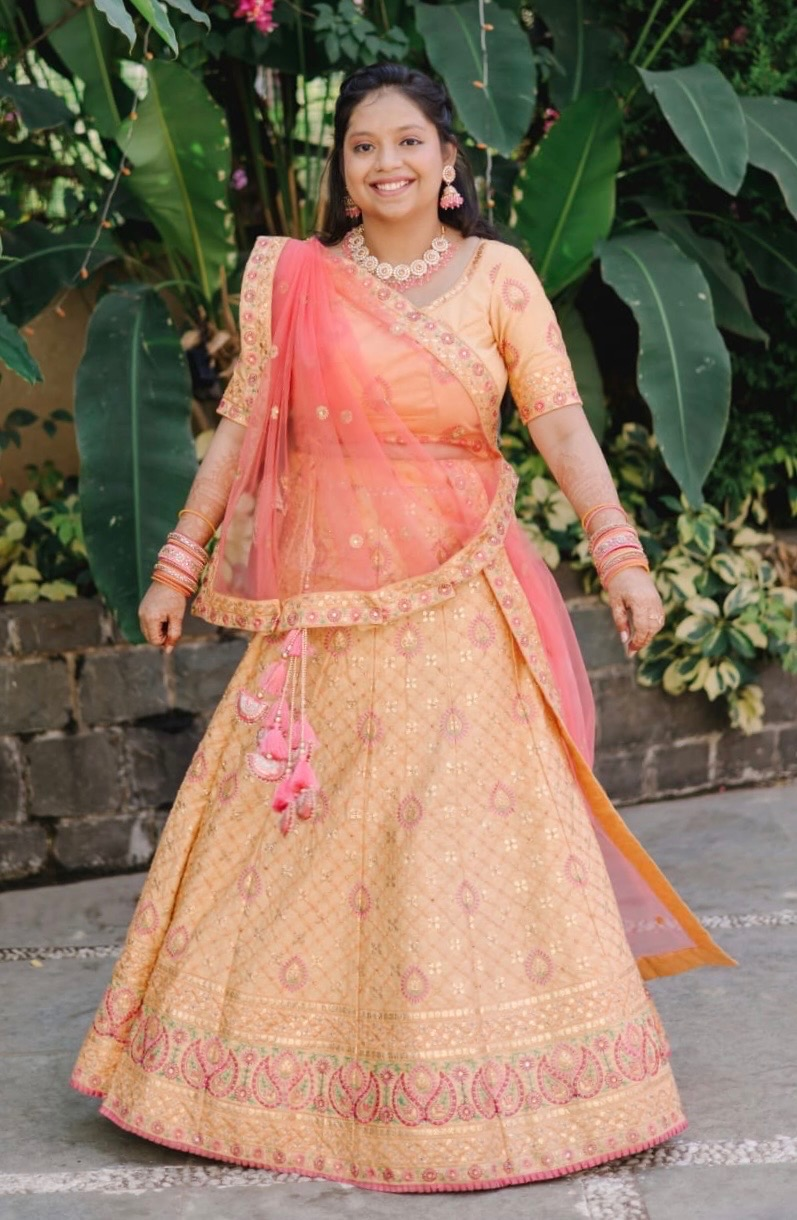
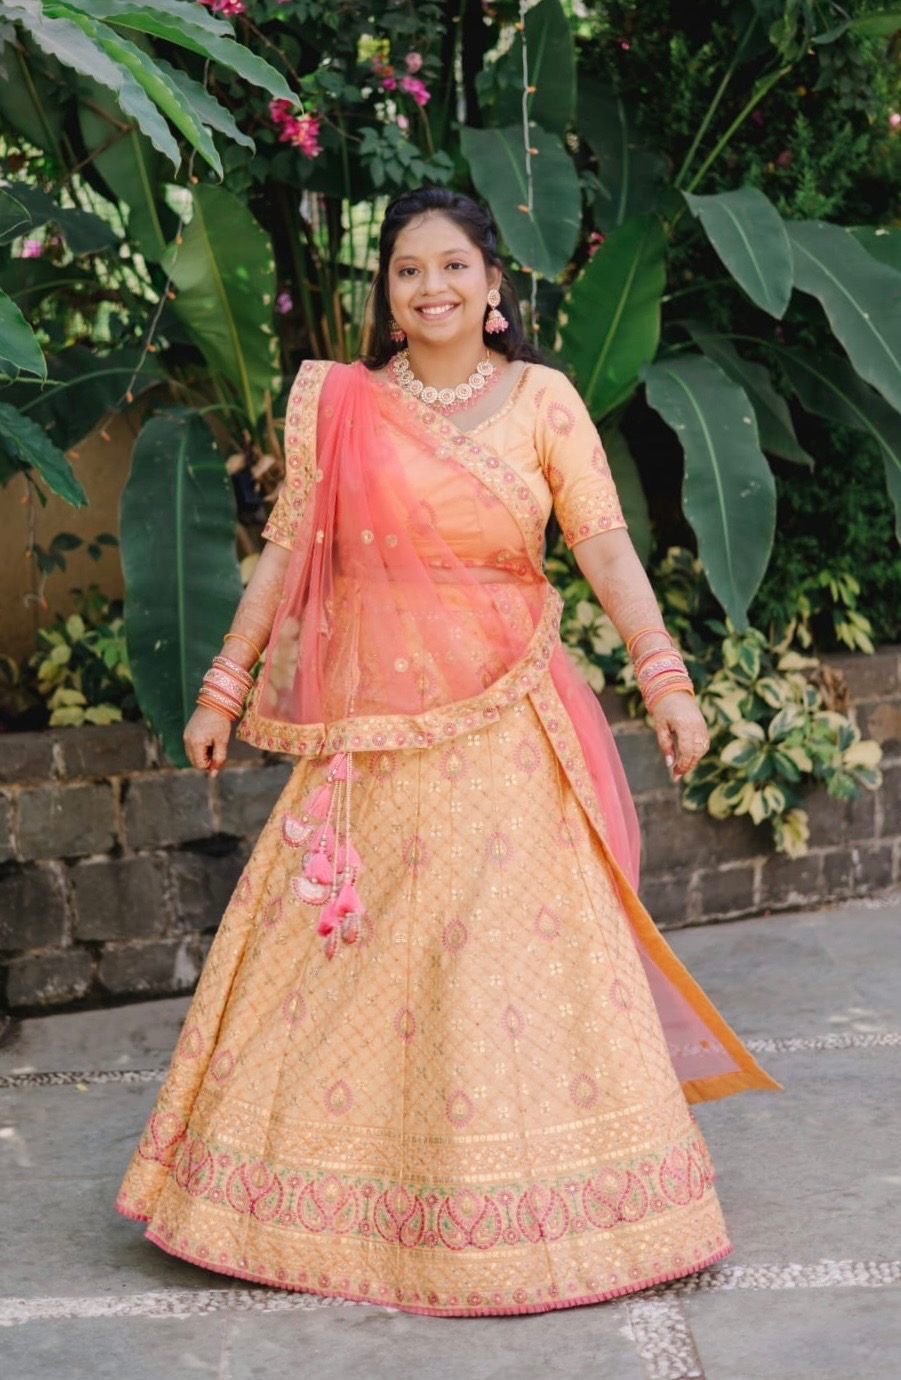
Add bride photos, Vibha bridesmaid, engagement countdown improvements
- Added Samiksha's 5 photos to Meet the Bride section
- Added Vibha as bridesmaid with new Tanvi and Priya photos
- Engagement countdown counts up after date passes
- Font consistency: sans-serif for values in Engagement, Reception
- Sans-serif for crew names, removed hashtag jiggle animation
- Updated First Date timeline with speeding ticket story

diff --git a/src/components/EngagementDetails.jsx b/src/components/EngagementDetails.jsx
@@ -7,12 +7,14 @@ import styles from './EngagementDetails.module.css';
 function useCountdown(targetDate) {
   const calc = () => {
     const diff = new Date(targetDate) - new Date();
-    if (diff <= 0) return { days: 0, hours: 0, minutes: 0, seconds: 0 };
+    const isPast = diff <= 0;
+    const absDiff = Math.abs(diff);
     return {
-      days: Math.floor(diff / (1000 * 60 * 60 * 24)),
-      hours: Math.floor((diff / (1000 * 60 * 60)) % 24),
-      minutes: Math.floor((diff / (1000 * 60)) % 60),
-      seconds: Math.floor((diff / 1000) % 60),
+      isPast,
+      days: Math.floor(absDiff / (1000 * 60 * 60 * 24)),
+      hours: Math.floor((absDiff / (1000 * 60 * 60)) % 24),
+      minutes: Math.floor((absDiff / (1000 * 60)) % 60),
+      seconds: Math.floor((absDiff / 1000) % 60),
     };
   };
 
@@ -28,7 +30,25 @@ function useCountdown(targetDate) {
 
 export default function EngagementDetails() {
   const { engagement } = content;
-  const { days, hours, minutes, seconds } = useCountdown(engagement.countdownDate);
+  const { isPast, days, hours, minutes, seconds } = useCountdown(engagement.countdownDate);
+
+  const countdownMsg = isPast
+    ? 'And just like that, forever found its beginning.'
+    : 'Every second brings us closer to forever';
+
+  const countdownLabels = isPast
+    ? [
+        { value: days, label: 'Days' },
+        { value: hours, label: 'Hours' },
+        { value: minutes, label: 'Minutes' },
+        { value: seconds, label: 'Seconds' },
+      ]
+    : [
+        { value: days, label: 'Days' },
+        { value: hours, label: 'Hours' },
+        { value: minutes, label: 'Minutes' },
+        { value: seconds, label: 'Seconds' },
+      ];
 
   return (
     <section className="section">
@@ -63,14 +83,12 @@ export default function EngagementDetails() {
             </div>
           </div>
 
-          <p className={styles.countdownMsg}>Every second brings us closer to forever</p>
+          {isPast && (
+            <p className={styles.sinceLabel}>Happily engaged for</p>
+          )}
+          <p className={styles.countdownMsg}>{countdownMsg}</p>
           <div className={styles.countdown}>
-            {[
-              { value: days, label: 'Days' },
-              { value: hours, label: 'Hours' },
-              { value: minutes, label: 'Minutes' },
-              { value: seconds, label: 'Seconds' },
-            ].map(({ value, label }) => (
+            {countdownLabels.map(({ value, label }) => (
               <div key={label} className={styles.countUnit}>
                 <span className={styles.countValue}>{String(value).padStart(2, '0')}</span>
                 <span className={styles.countLabel}>{label}</span>

diff --git a/src/data/content.js b/src/data/content.js
@@ -54,7 +54,7 @@ export const content = {
       },
       {
         title: 'The First Date',
-        description: 'Coffee turned into dinner, dinner turned into hours of conversation, and hours turned into a connection that would last a lifetime.',
+        description: 'A dinner that turned into hours of conversation, a drive back that turned into a speeding ticket — and a memory that still makes us laugh. Who knew love could come with a fine?',
       },
       {
         title: 'Becoming Each Other\'s Person',
@@ -73,7 +73,7 @@ export const content = {
 
   engagement: {
     heading: 'Engagement Ceremony',
-    date: '1st May 2026',
+    date: '01 May 2026',
     countdownDate: '2026-05-01T10:00:00',
     time: 'Stay tuned for the moment',
     venue: 'Somewhere magical in Mumbai',
@@ -230,7 +230,7 @@ export const content = {
     subheading: 'The woman who made his world complete',
     promptText: 'Curious about the one who captured his heart? Here\'s a glimpse into her beautiful world.',
     photos: [
-      { src: `${base}images/about/samiksha.jpg`, alt: 'Samiksha' },
+      { src: `${base}images/bride/photo-1.jpg`, alt: 'Samiksha' },
       { src: `${base}images/bride/photo-2.jpg`, alt: 'Samiksha' },
       { src: `${base}images/bride/photo-3.jpg`, alt: 'Samiksha' },
       { src: `${base}images/bride/photo-4.jpg`, alt: 'Samiksha' },
@@ -266,6 +266,11 @@ export const content = {
           name: 'Tanvi',
           photo: `${base}images/bridesmaids/tanvi.jpg`,
           description: 'Solace — the quiet comfort she turns to without words. The gentle place that gathers her back together.',
+        },
+        {
+          name: 'Vibha',
+          photo: `${base}images/bridesmaids/vibha.jpg`,
+          description: 'North Star — the steady light that guides her home, no matter how dark the night.',
         },
         {
           name: 'Priya',

diff --git a/src/components/EngagementDetails.module.css b/src/components/EngagementDetails.module.css
@@ -40,7 +40,7 @@
 }
 
 .value {
-  font-family: var(--font-serif);
+  font-family: var(--font-sans);
   font-size: var(--text-lg);
   color: var(--color-text);
 }
@@ -52,12 +52,20 @@
   margin-top: var(--space-xs);
 }
 
+.sinceLabel {
+  font-family: var(--font-serif);
+  font-size: var(--text-2xl);
+  color: var(--color-gold);
+  margin-top: var(--space-2xl);
+  margin-bottom: var(--space-sm);
+}
+
 .countdownMsg {
   font-family: var(--font-serif);
   font-size: var(--text-base);
   color: var(--color-text-muted);
   font-style: italic;
-  margin-top: var(--space-2xl);
+  margin-top: var(--space-sm);
   margin-bottom: var(--space-lg);
 }
 

diff --git a/src/components/Hashtag.module.css b/src/components/Hashtag.module.css
@@ -22,21 +22,7 @@
   font-family: var(--font-serif);
   font-size: var(--text-3xl);
   color: var(--color-gold);
-  animation: floatTag 6s ease-in-out infinite;
   text-shadow: 0 0 40px rgba(201, 169, 110, 0.2);
-}
-
-.tag:nth-child(2) {
-  animation-delay: -2s;
-}
-
-.tag:nth-child(3) {
-  animation-delay: -4s;
-}
-
-@keyframes floatTag {
-  0%, 100% { transform: translateY(0); }
-  50% { transform: translateY(-8px); }
 }
 
 @media (max-width: 600px) {

diff --git a/src/components/MeetGroom.module.css b/src/components/MeetGroom.module.css
@@ -234,7 +234,7 @@
 }
 
 .crewName {
-  font-family: var(--font-serif);
+  font-family: var(--font-sans);
   font-size: var(--text-lg);
   color: var(--color-text);
   margin-bottom: var(--space-xs);

diff --git a/src/components/Reception.module.css b/src/components/Reception.module.css
@@ -66,7 +66,7 @@
 }
 
 .value {
-  font-family: var(--font-serif);
+  font-family: var(--font-sans);
   font-size: var(--text-base);
   color: var(--color-text);
   line-height: 1.5;
